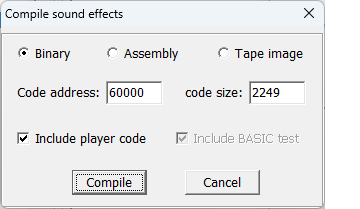
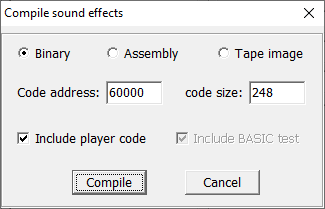
Fixed bank assigment

diff --git a/dist/cydc/cydc.py b/dist/cydc/cydc.py
@@ -31,6 +31,7 @@ import gettext
 import argparse
 import json
 import re
+import copy
 
 from cydc_txt_compress import CydcTextCompressor, NUM_TOKENS
 from cydc_parser import CydcParser
@@ -561,9 +562,11 @@ def main():
 
         fits = False
         while not fits:
-            index = tmp_index[:]
-            available_banks = tmp_blocks[:]
-            available_bank_size = tmp_available_bank_size[:]
+            index = copy.deepcopy(tmp_index)
+            available_banks = copy.deepcopy(tmp_blocks)
+            available_banks.extend([[] for x in range(num_banks-len(tmp_blocks))])
+            available_bank_size = copy.deepcopy(tmp_available_bank_size)
+            available_bank_size.extend([16*1024 for x in range(num_banks-len(tmp_available_bank_size))])
             fits = True
             for i, block in enumerate(blocks):
                 btype, bidx, bsize, bdata, bpath = block
@@ -592,11 +595,16 @@ def main():
                     available_banks[best_fit_index] += bdata
                     available_bank_size[best_fit_index] -= bsize
                 else:
+                    del(available_bank_size)
+                    del(available_banks)
+                    del(index)
                     num_banks += 1
                     fits = False
                     break
             if num_banks > max_banks:
                 sys.exit(_("ERROR: Not enough memory available"))
+
+        index = [(b, bidx, spectrum_banks[bank], offset) for (b, bidx, bank, offset) in index]
 
         if verbose:
             print("\nBanks:\n-----------------")

diff --git a/src/cydc/cydc/cydc.py b/src/cydc/cydc/cydc.py
@@ -31,6 +31,7 @@ import gettext
 import argparse
 import json
 import re
+import copy
 
 from cydc_txt_compress import CydcTextCompressor, NUM_TOKENS
 from cydc_parser import CydcParser
@@ -561,9 +562,11 @@ def main():
 
         fits = False
         while not fits:
-            index = tmp_index[:]
-            available_banks = tmp_blocks[:]
-            available_bank_size = tmp_available_bank_size[:]
+            index = copy.deepcopy(tmp_index)
+            available_banks = copy.deepcopy(tmp_blocks)
+            available_banks.extend([[] for x in range(num_banks-len(tmp_blocks))])
+            available_bank_size = copy.deepcopy(tmp_available_bank_size)
+            available_bank_size.extend([16*1024 for x in range(num_banks-len(tmp_available_bank_size))])
             fits = True
             for i, block in enumerate(blocks):
                 btype, bidx, bsize, bdata, bpath = block
@@ -592,11 +595,16 @@ def main():
                     available_banks[best_fit_index] += bdata
                     available_bank_size[best_fit_index] -= bsize
                 else:
+                    del(available_bank_size)
+                    del(available_banks)
+                    del(index)
                     num_banks += 1
                     fits = False
                     break
             if num_banks > max_banks:
                 sys.exit(_("ERROR: Not enough memory available"))
+
+        index = [(b, bidx, spectrum_banks[bank], offset) for (b, bidx, bank, offset) in index]
 
         if verbose:
             print("\nBanks:\n-----------------")

diff --git a/TUTORIAL_es.md b/TUTORIAL_es.md
@@ -18,6 +18,7 @@
   - [Subrutinas](#subrutinas)
   - [Compresión de textos y abreviaturas](#compresión-de-textos-y-abreviaturas)
   - [Flujo de trabajo](#flujo-de-trabajo)
+  - [Versiones para los diferentes modelos de Zx Spectrum](#versiones-para-los-diferentes-modelos-de-zx-spectrum)
 
 ---
 
@@ -571,7 +572,7 @@ Con esto tenemos la imagen cargada, pero para mostrarla , tenemos que usar el co
 
 Ya podemos mostrar imágenes, pero hay que aclarar antes algunas cosas. Lo primero que te puede llamar la atención es... ¿para qué sirve el 1 de DISPLAY? Como se indica en la referencia, el comando `DISPLAY` necesita un parámetro que indica si debe mostrar la imagen o no; si el valor es cero, no la muestra, y si es distinto de cero, sí. Esto puede parecer inútil, pero tiene sentido si se usa con la indirección, que explicaré más adelante, para hacer que se muestre la imagen de forma condicional de acuerdo al valor de una variable.
 
-Otra cosa que te puede extrañar es ¿por qué los comandos de cargar la imagen y mostrarla están separados, en lugar de usar un único comando para hacer las dos cosas? Pues la respuesta es una decisión de diseño para las versión de disco, ya que al separar la carga en una operación diferente, podemos controlar cuándo se hace ésta para, por ejemplo, hacer la carga cuando comience un capítulo, y mostrar luego la imagen en el momento más oportuno, ya que al cargar, se detendrá el motor y generará una pausa en la lectura en un momento no deseado.
+Otra cosa que te puede extrañar es ¿por qué los comandos de cargar la imagen y mostrarla están separados, en lugar de usar un único comando para hacer las dos cosas? Pues la respuesta es una decisión de diseño para la versión de disco, ya que al separar la carga en una operación diferente, podemos controlar cuándo se hace ésta para, por ejemplo, hacer la carga cuando comience un capítulo, y mostrar luego la imagen en el momento más oportuno, ya que al cargar, se detendrá el motor y generará una pausa en la lectura en un momento no deseado.
 
 De momento, quédate que primero necesitas `PICTURE 3`, para cargar la imagen `003.CSC`, por ejemplo, y después `DISPLAY 1` para mostrarla. Hay que destacar que sólo podemos cargar una imagen a la vez, con lo que si cargamos otra imagen, la que ya estuviese cargada se borrará, y una imagen cargada la podemos mostrar tantas veces como queramos. Y tendrás un bonito error si intentas cargar una imagen que no exista en el disco o en memoria, o al mostrar una imagen sin cargarla antes.
 
@@ -582,7 +583,54 @@ REM Number of lines used on SCR files at compressing
 SET IMGLINES=192
 ```
 
-Tras cargar la imagen, podemos ajustar el tamaño del área de impresión para que no se sobrescriba el dibujo usando `MARGINS`.
+Debido a las limitaciones de color del Spectrum, recomiendo que siempre sea un múltiplo de 8.
+
+Al usar imágenes, podemos ajustar el tamaño del área de impresión para que no se sobrescriba todo el dibujo usando `MARGINS`. Vamos a combinar dos ejemplos anteriores para verlo:
+
+```
+[[ /* Pone colores de pantalla y la borra */
+   PAPER 0    /* Color de fondo negro  */
+   INK   7    /* Color de texto blanco */
+   BORDER 0   /* Borde de color negro  */
+   CLEAR      /* Borramos la pantalla*/
+   PAGEPAUSE 1
+   PICTURE 1
+   DISPLAY 1
+   MARGINS 0, 10, 32, 14
+]]Lorem ipsum dolor sit amet, consectetur adipiscing elit. Nam eget pretium felis. Quisque tincidunt tortor eget libero fermentum, rutrum aliquet nisl semper. Pellentesque id eros non leo ullamcorper hendrerit. Fusce pretium bibendum lectus, vel dignissim velit interdum quis. Integer vel ipsum ac elit tincidunt vulputate. Mauris sagittis sapien in justo pretium cursus. Proin nec tincidunt purus, et tempus metus. Nunc dapibus vel ante eu dictum. Donec vestibulum scelerisque orci in tempus. Nunc quis velit id velit faucibus tempus vel id tellus.[[ WAITKEY: END ]]
+```
+
+Lo primero que hará será mostrar la imagen, que sobrescribirá la pantalla completa, y luego definiremos una zona inferior donde se dibujará el texto:
+
+![Mostrando imagen y texto](assets/tut030.png)
+
+Como el texto no cabe, al darle a continuar, se borrará el area de impresión definida con `MARGINS` y seguirá imprimiendo el resto:
+
+![Mostrando imagen y texto](assets/tut031.png)
+
+Para hacer el comportamiento un poco más coherente, vamos a poner un `CLEAR` justo después de `MARGINS`:
+
+```
+[[ /* Pone colores de pantalla y la borra */
+   PAPER 0    /* Color de fondo negro  */
+   INK   7    /* Color de texto blanco */
+   BORDER 0   /* Borde de color negro  */
+   CLEAR      /* Borramos la pantalla*/
+   PAGEPAUSE 1
+   PICTURE 1
+   DISPLAY 1
+   MARGINS 0, 10, 32, 14
+   CLEAR
+]]Lorem ipsum dolor sit amet, consectetur adipiscing elit. Nam eget pretium felis. Quisque tincidunt tortor eget libero fermentum, rutrum aliquet nisl semper. Pellentesque id eros non leo ullamcorper hendrerit. Fusce pretium bibendum lectus, vel dignissim velit interdum quis. Integer vel ipsum ac elit tincidunt vulputate. Mauris sagittis sapien in justo pretium cursus. Proin nec tincidunt purus, et tempus metus. Nunc dapibus vel ante eu dictum. Donec vestibulum scelerisque orci in tempus. Nunc quis velit id velit faucibus tempus vel id tellus.[[ WAITKEY: END ]]
+```
+
+Y con esto ya está mejor:
+
+![Mostrando imagen y texto](assets/tut032.png)
+
+Aquí hemos usado una imagen al azar, más concretamente, la pantalla de carga de la *Aventura Original*. Pero si vamos a hacer este tipo de recortes con todas las imágenes, podemos cambiar el valor de la variable `IMGLINES`, para que recorte las líneas que no queramos. Esto ahorrará espacio, y evitará que se sobrescriba la zona inferior de texto cuando carguemos una nueva imagen.
+
+Para la gestión de imágenes y teniendo en cuenta estas restricciones, es importante planificar de antemano cómo y cuándo las vamos a mostrar.
 
 ---
 
@@ -600,11 +648,11 @@ Ahora vamos a exportarlo a un fichero con el que podamos usarlos con el motor. P
 
 ![Exportar desde BeepFx](assets/tut022.png)
 
-Ahora viene lo importante, **tenemos que cambiar `Code Address` a 49152**, y dejar siempre marcadas la opción `Binary` e `Include player code`:
+Ahora viene lo importante, **tenemos que dejar siempre marcadas la opción `Assembly` e `Include player code`**:
 
 ![Opciones para BeepFx](assets/tut023.png)
 
-Le damos al botón `Compile` y nos sale un diálogo para guardar el fichero. **Lo tenemos que llamar `SFX.BIN`** y lo guardamos en la carpeta donde estemos desarrollando nuestra aventura. Cuando ejecutemos el guion `MakeAdv.bat`. Si éste encuentra en su mismo directorio el fichero `SFX.BIN`, lo incluirá automáticamente en la imagen de disco y lo podremos usar desde el motor.
+Le damos al botón `Compile` y nos sale un diálogo para guardar el fichero. **Lo tenemos que llamar `SFX.ASM`** y lo guardamos en la carpeta donde estemos desarrollando nuestra aventura. Cuando ejecutemos el guion `MakeAdv.bat`. Si éste encuentra en su mismo directorio el fichero `SFX.ASM`, lo incluirá automáticamente en el fichero resultante y lo podremos usar desde el motor.
 
 Vamos a poner un ejemplo, pon esto como código de la aventura:
 
@@ -636,8 +684,6 @@ Vamos a poner un ejemplo, pon esto como código de la aventura:
 Como se puede ver, con el comando `SFX`, podemos reproducir cualquiera de los efectos del fichero indicando su número como parámetro.
 
 Una peculiaridad del comando SFX es que, al contrario que las imágenes, si el fichero SFX.BIN no se encuentra en el disco, fallará silenciosamente sin dar error y el efecto de sonido simplemente no se reproducirá.
-
-Como detalle más técnico, indicar que el contenido del fichero SFX.BIN se alojará en el banco 1 de la memoria del Spectrum, y por lo tanto, tenemos un límite de tamaño de 16Kb.
 
 ---
 
@@ -901,3 +947,14 @@ Por último, casi todos emuladores modernos ofrecen la posibilidad de acelerar l
 Espero que estas técnicas te ayuden a crear tu aventura de la manera más cómoda posible. Programar es un proceso iterativo de escribir, compilar, ejecutar y probar, y puede resultar monótono, pero también muy satisfactorio cuando obtenemos el resultado deseado.
 
 ---
+
+## Versiones para los diferentes modelos de Zx Spectrum
+
+Hasta este momento, sólo hemos desarrollado aventuras para el Zx Spectrum +3, que disponía de una unidad de disco. La primera versión del intérprete estaba dirigida a este modelo, ya que tiene el mayor espacio disponible (180 kb) y permite cargar los textos e imágenes de forma dinámica, según se requieran en cada momento y con un tiempo de espera razonable.
+
+Sin embargo, el formato DSK es bastante poco común y poco usado el algunos ámbitos, con lo que se ha añadido soporte para ficheros TAP para usarlo con modelos 48k y 128k. Esto conlleva una serie de ventajas y limitaciones que hay que considerar.
+Las versiones para TAP cargarán todo (textos, imágenes) de una sola vez. Esto implica que el tiempo de acceso a éstos será inmediato en el momento de utilizarlos, pero incrementará el tiempo de carga desde la cinta de forma considerable (si no se usa algún tipo de aceleración), además de estar limitados a la memoria disponible en la máquina.
+
+El espacio disponible variará dependiendo de la aventura y de los recursos extra a utilizar ya que si se obvian músicas y efectos de sonido, el tamaño del interprete se reducirá, dejando más espacio para textos e imágenes. Como promedio, calcula que tendrás unos 96 Kb disponibles en los modelos de 128K y unos 24 Kb en los modelos de 48K. Por este motivo, la versión de 48K no incluye soporte para melodías AY.
+
+(TBC)
